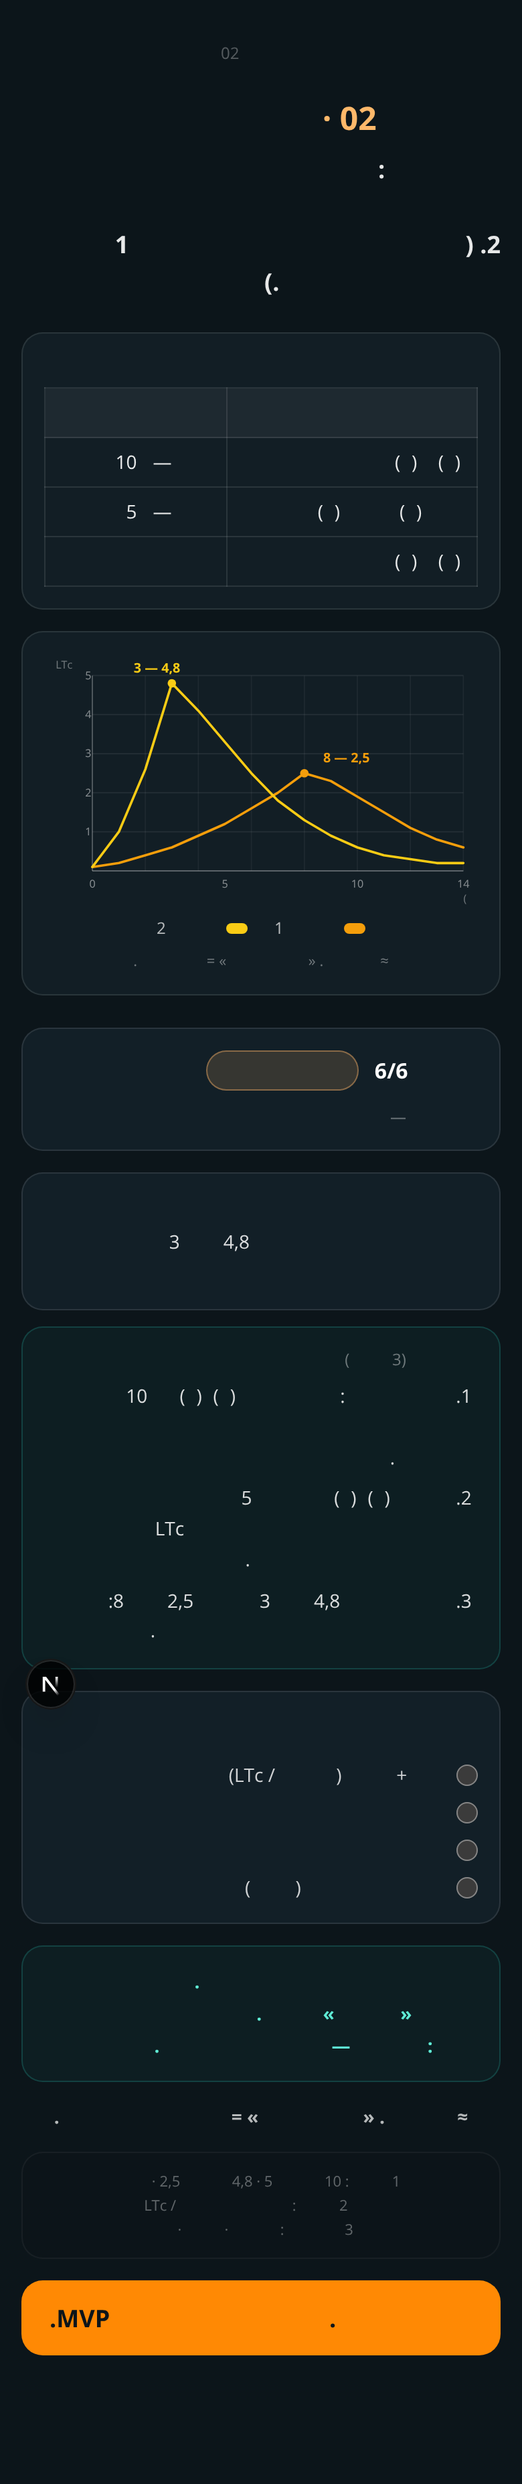
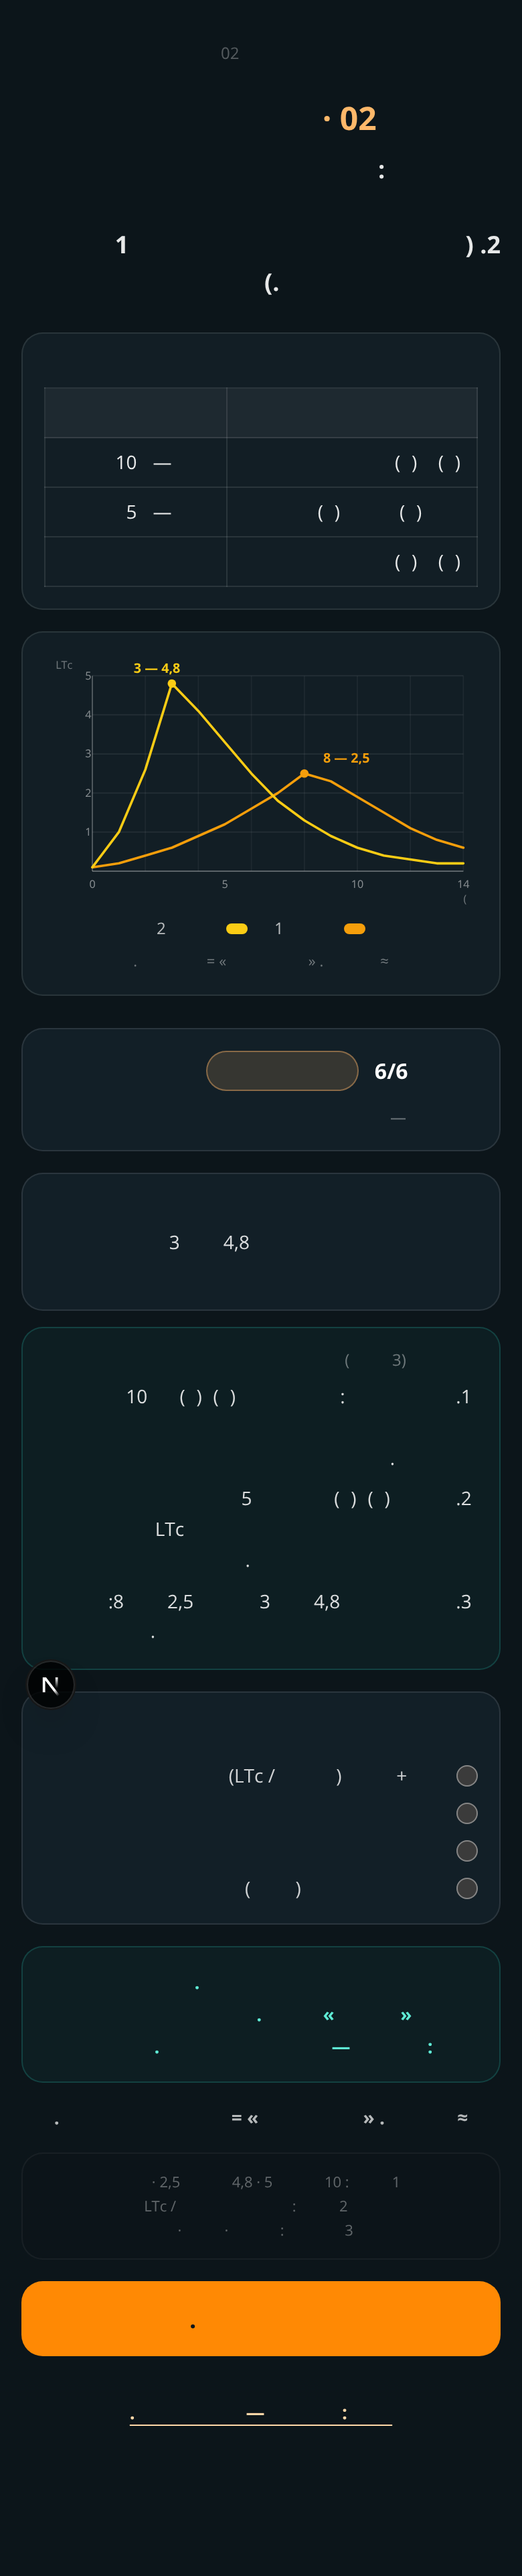
fix CTA 02 : texte corrigé + lien unique miroir 02 -> /manhadjia/istintaj
- cta_fin 02 : « خلصنا فسّر. » (le mensonge « استنتج مش في الـ MVP » supprimé)
- Un seul lien, Phase C miroir 02 après envoi : غدوة: استنتج — جملة تسكّر.
- Champ lien générique (lien_suivant) partagé 01/02 ; pas dans le rituel, pas sur la carte
- Recettes Chromium rejouées : 01 11/11, 02 15/15 (R9 = 1 lien exact), 03 15/15

diff --git a/khawarizmi-frontend/src/components/manhadjia/AtelierFassir.tsx b/khawarizmi-frontend/src/components/manhadjia/AtelierFassir.tsx
@@ -1,6 +1,7 @@
 "use client"
 
 import { useMemo, useState } from "react"
+import Link from "next/link"
 import {
   detectFassir,
   MUSCLE_ACCENTS,
@@ -314,6 +315,19 @@ export function AtelierFassir({ data, onReplay, variant = "orange" }: Props) {
           >
             {data.cta_fin}
           </button>
+
+          {/* Un seul lien, en bas du miroir, après envoi : bootcamp J2→J3 */}
+          {data.lien_suivant && (
+            <div className="pt-1 text-center">
+              <Link
+                href={data.lien_suivant.href}
+                className={`inline-block min-h-12 px-4 py-3 text-sm font-black underline underline-offset-4 ${A.textSoft}`}
+                dir="rtl"
+              >
+                {data.lien_suivant.label}
+              </Link>
+            </div>
+          )}
         </section>
       )}
     </div>

diff --git a/khawarizmi-frontend/src/components/manhadjia/AtelierHallil.tsx b/khawarizmi-frontend/src/components/manhadjia/AtelierHallil.tsx
@@ -278,15 +278,15 @@ export function AtelierHallil({ data, onReplay }: Props) {
             {data.cta_fin}
           </button>
 
-          {/* Un seul lien, en bas du miroir, après envoi : bootcamp J1→J2 */}
-          {data.lien_j2 && (
+          {/* Un seul lien, en bas du miroir, après envoi : bootcamp J→J+1 */}
+          {data.lien_suivant && (
             <div className="pt-1 text-center">
               <Link
-                href={data.lien_j2.href}
+                href={data.lien_suivant.href}
                 className="inline-block min-h-12 px-4 py-3 text-sm font-black text-yellow-200 underline underline-offset-4 hover:text-yellow-300"
                 dir="rtl"
               >
-                {data.lien_j2.label}
+                {data.lien_suivant.label}
               </Link>
             </div>
           )}

diff --git a/khawarizmi-frontend/src/lib/manhadjia-lib.ts b/khawarizmi-frontend/src/lib/manhadjia-lib.ts
@@ -39,7 +39,8 @@ export interface AtelierData {
   bandeau_indicatif: string
   voix_ghalta: string
   cta_fin: string
-  lien_j2?: { label: string; href: string }
+  // Un seul lien possible, en bas du miroir après envoi (bootcamp J→J+1)
+  lien_suivant?: { label: string; href: string }
 }
 
 // Palette des muscles : حلّل = أصفر (jaune), فسّر = برتقالي (orange),
